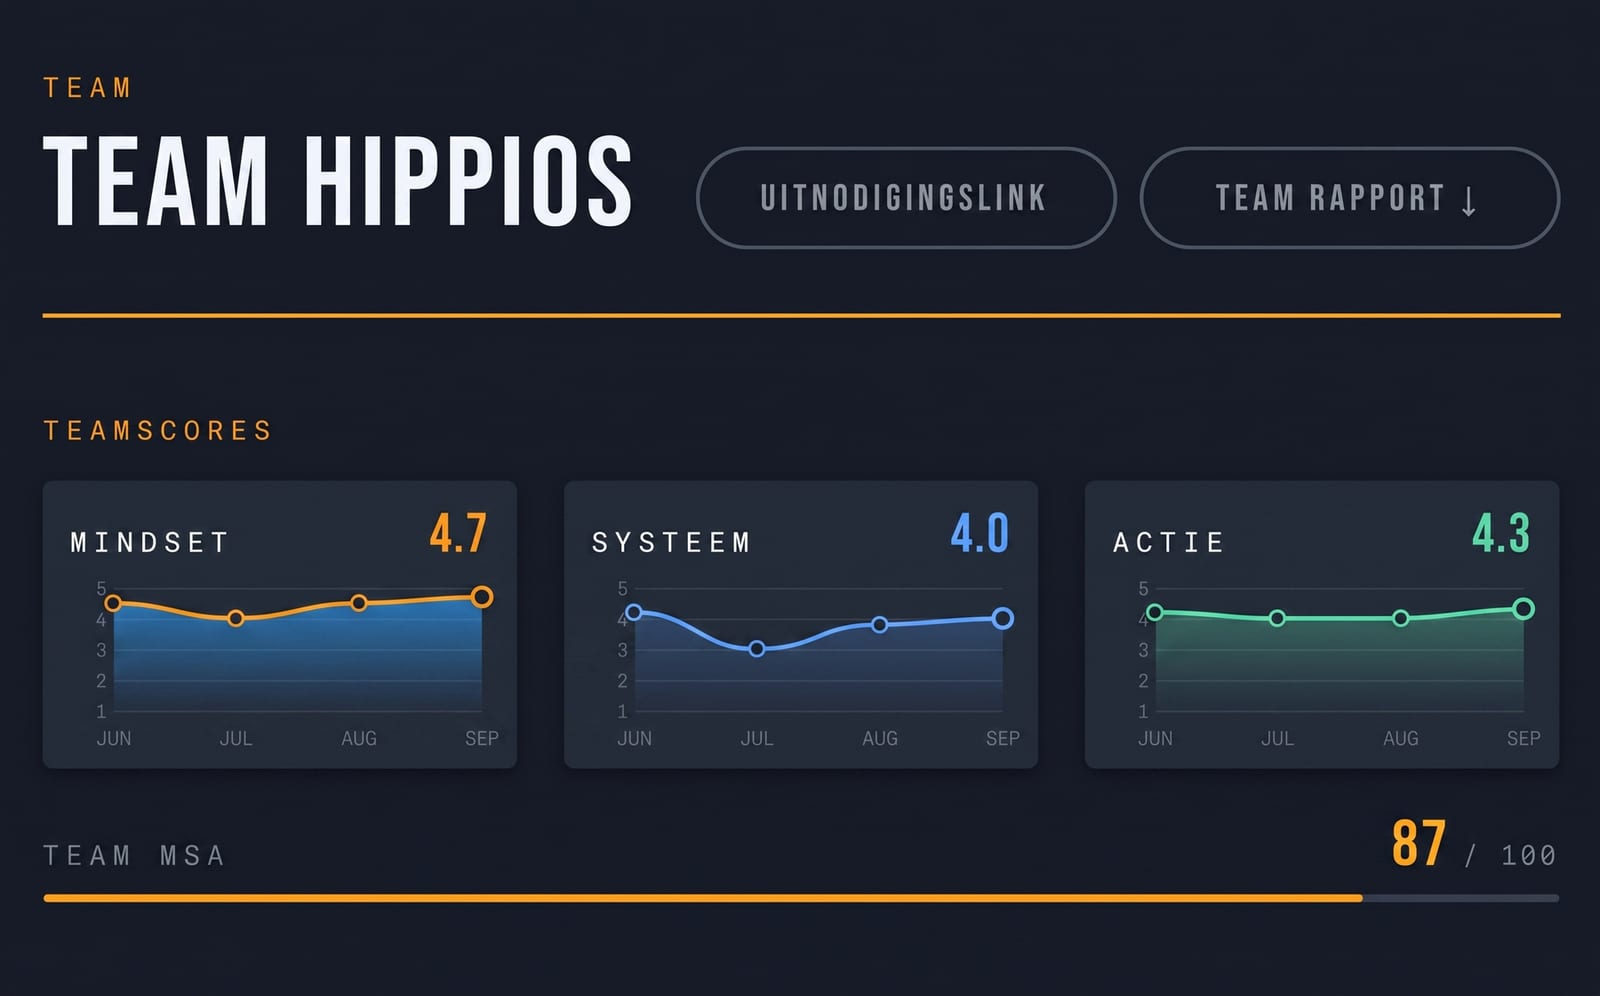
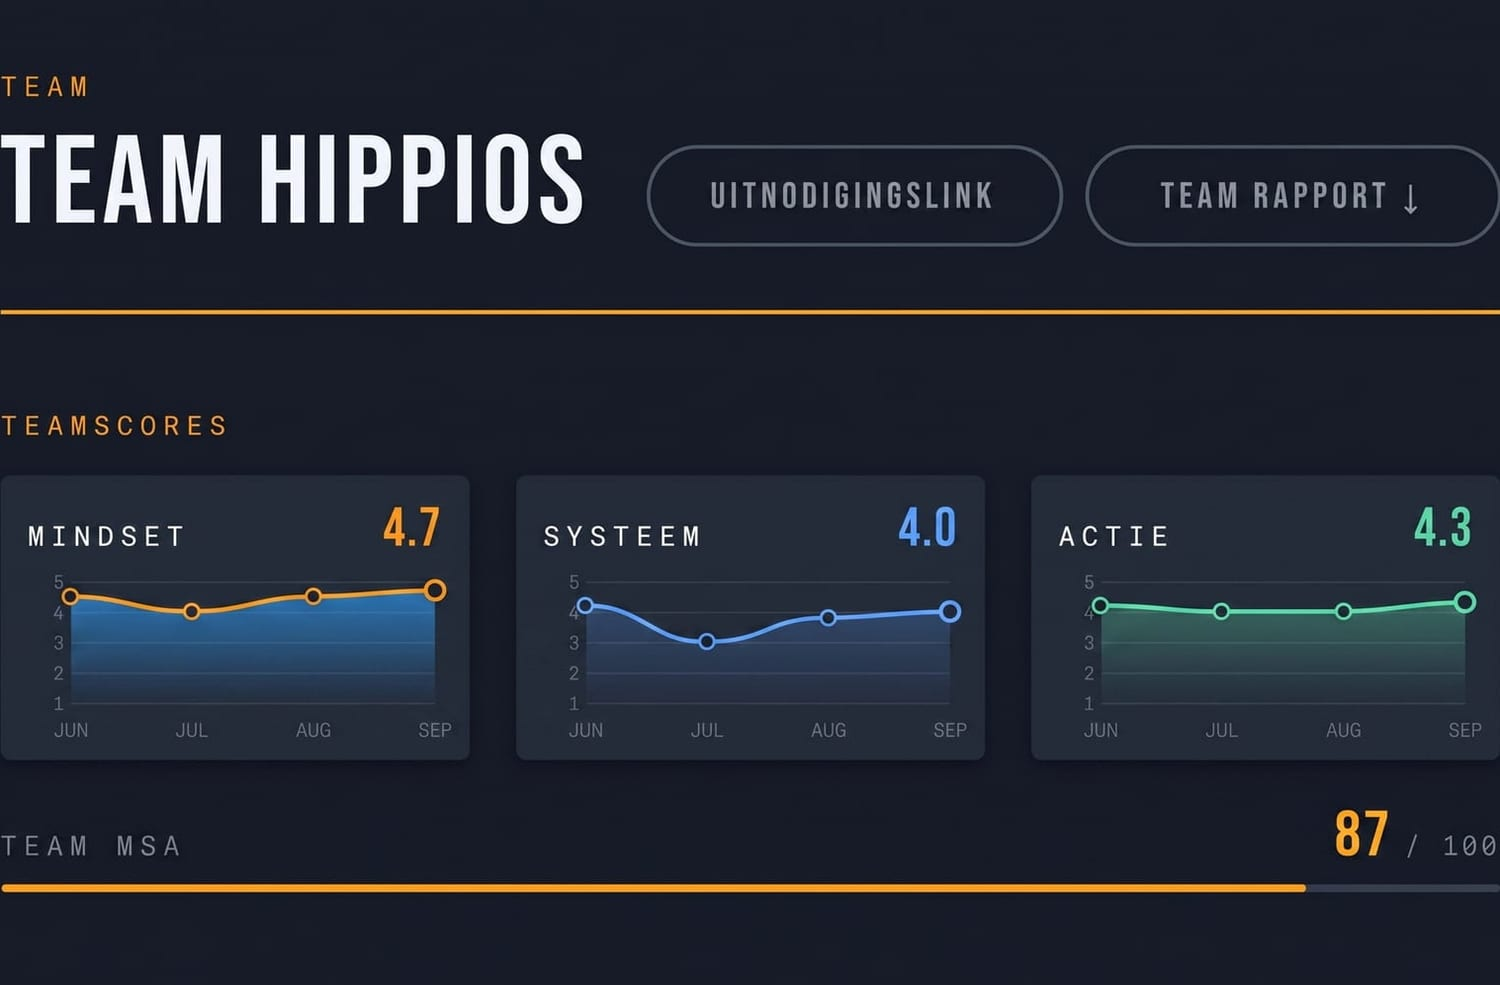
style: Team-landingspagina bijgestuurd
- held-shot: gebruikt de bijgesneden overzicht.jpg (geen zwarte zijvlakken)
- "het probleem" en "wat je als manager krijgt" en de secties eronder gecentreerd
- profiel: fragment links, tekst rechts, bovenaan uitgelijnd
- team spotlight-blok verwijderd (blijft wel in /prijzen als tier-bullet)
- 1:1: tekst bovenaan uitgelijnd
- ongebruikte screenshots verwijderd, alleen overzicht.jpg blijft

diff --git a/app/team/page.tsx b/app/team/page.tsx
@@ -73,8 +73,9 @@ export default async function TeamPage() {
         .tm-btn-ghost:hover { background: rgba(245,158,11,0.08); }
 
         /* Sections */
-        .tm-section { padding: 56px 0; border-top: 1px solid #1f2937; }
-        .tm-section-narrow { max-width: 62ch; }
+        .tm-section { padding: 56px 0; border-top: 1px solid #1f2937; text-align: center; }
+        .tm-section-narrow { max-width: 62ch; margin-left: auto; margin-right: auto; }
+        .tm-section .tm-lead { margin-left: auto; margin-right: auto; }
 
         /* Held-productshot onder de hero (Linear/Vercel-patroon: koptekst, dan het product) */
         .tm-heroshot { max-width: 1040px; margin: 8px auto 0; padding: 0 24px; }
@@ -91,8 +92,8 @@ export default async function TeamPage() {
         .tm-heroshot figcaption { margin-top: 16px; text-align: center; font-size: 13px; color: #6b7280; }
 
         /* Feature-secties: korte tekst naast een herbouwd productfragment (Stripe/Attio-patroon) */
-        .tm-feat { display: grid; grid-template-columns: 2fr 3fr; gap: 48px; align-items: center; padding: 52px 0; border-top: 1px solid #1f2937; }
-        .tm-feat:nth-of-type(even) .tm-feat-frag { order: -1; }
+        .tm-feat { display: grid; grid-template-columns: 2fr 3fr; gap: 48px; align-items: start; padding: 52px 0; border-top: 1px solid #1f2937; }
+        .tm-feat-flip .tm-feat-frag { order: -1; }
         .tm-feat-text h3 {
           font-family: 'Oswald', sans-serif; font-size: 22px; font-weight: 600; text-transform: uppercase;
           color: #f8fafc; margin-bottom: 12px;
@@ -142,7 +143,7 @@ export default async function TeamPage() {
         .tm-faq-item { border-top: 1px solid #1f2937; padding: 20px 0; }
         .tm-faq-item:last-child { border-bottom: 1px solid #1f2937; }
         .tm-faq-q { font-family: 'Oswald', sans-serif; font-size: 16px; font-weight: 600; text-transform: uppercase; color: #f8fafc; }
-        .tm-faq-a { font-size: 14px; line-height: 1.7; color: #94a3b8; margin-top: 8px; max-width: 60ch; }
+        .tm-faq-a { font-size: 14px; line-height: 1.7; color: #94a3b8; margin: 8px auto 0; max-width: 60ch; }
 
         .tm-final { text-align: center; padding: 64px 0 8px; }
         .tm-final .tm-h2 { margin-bottom: 14px; }
@@ -150,7 +151,7 @@ export default async function TeamPage() {
 
         @media (max-width: 820px) {
           .tm-feat { grid-template-columns: 1fr; gap: 24px; padding: 40px 0; }
-          .tm-feat:nth-of-type(even) .tm-feat-frag { order: 0; }
+          .tm-feat-flip .tm-feat-frag { order: 0; }
           .tm-steps { grid-template-columns: 1fr; }
           .tm-hero { padding: 120px 24px 48px; }
           .tm-heroshot { margin-top: 4px; }
@@ -190,7 +191,7 @@ export default async function TeamPage() {
 
       <figure className="tm-heroshot">
         <div className="tm-heroshot-frame">
-          <img src="/team/overzicht.jpg" width="1600" height="996" alt="Het teamdashboard: de score van elke verkoper naast elkaar met de teamtrend over de maanden" />
+          <img src="/team/overzicht.jpg" width="1500" height="985" alt="Het teamdashboard: de score van elke verkoper naast elkaar met de teamtrend over de maanden" />
         </div>
         <figcaption>Je hele team in één scherm, bijgewerkt na elk gesprek dat je verkopers voeren.</figcaption>
       </figure>
@@ -211,12 +212,12 @@ export default async function TeamPage() {
           <p className="tm-label">Wat je als manager krijgt</p>
           <h2 className="tm-h2">Van overzicht naar het volgende gesprek</h2>
           <p className="tm-lead" style={{ marginTop: 18 }}>
-            Het teamoverzicht laat zien waar iedereen staat. Deze drie schermen vertellen je
+            Het teamoverzicht laat zien waar iedereen staat. Deze twee schermen vertellen je
             wat je ermee doet.
           </p>
         </section>
 
-        <div className="tm-feat">
+        <div className="tm-feat tm-feat-flip">
           <div className="tm-feat-text">
             <h3>Profiel per verkoper</h3>
             <p>
@@ -253,33 +254,6 @@ export default async function TeamPage() {
               <p className="tm-frag-p">
                 Proactief en resultaatgericht. Nog steeds de neiging om te duwen als een traject
                 stilligt, waar afwachten soms sterker is.
-              </p>
-            </div>
-          </div>
-        </div>
-
-        <div className="tm-feat">
-          <div className="tm-feat-text">
-            <h3>Spotlight</h3>
-            <p>
-              ArnoBot leest alle gesprekken van je team en vertelt je waar de collectieve winst
-              zit. Eén heldere prioriteit in plaats van tien losse signalen.
-            </p>
-          </div>
-          <div className="tm-feat-frag">
-            <div className="tm-frag">
-              <p className="tm-frag-label">TEAM SPOTLIGHT</p>
-              <p className="tm-frag-h">PER PIJLER</p>
-              <p className="tm-frag-p">
-                Mindset: sterke opwaartse lijn, van 3.2 naar 4.7. Systeem: groei naar 4.0, maar
-                opvolging en stakeholderbeheer blijven de zwakste schakel. Actie: solide naar
-                4.3, al blijven concrete closing-momenten onbenut.
-              </p>
-              <p className="tm-frag-h">KRACHT VAN HET TEAM</p>
-              <p className="tm-frag-p">
-                Dit team is aan het leren nadenken in plaats van reageren. Een verkoper die
-                bewust doorvraagt voordat er een tegenargument komt, een ander die de
-                inkoopdirecteur al in het tweede gesprek aan tafel krijgt.
               </p>
             </div>
           </div>
